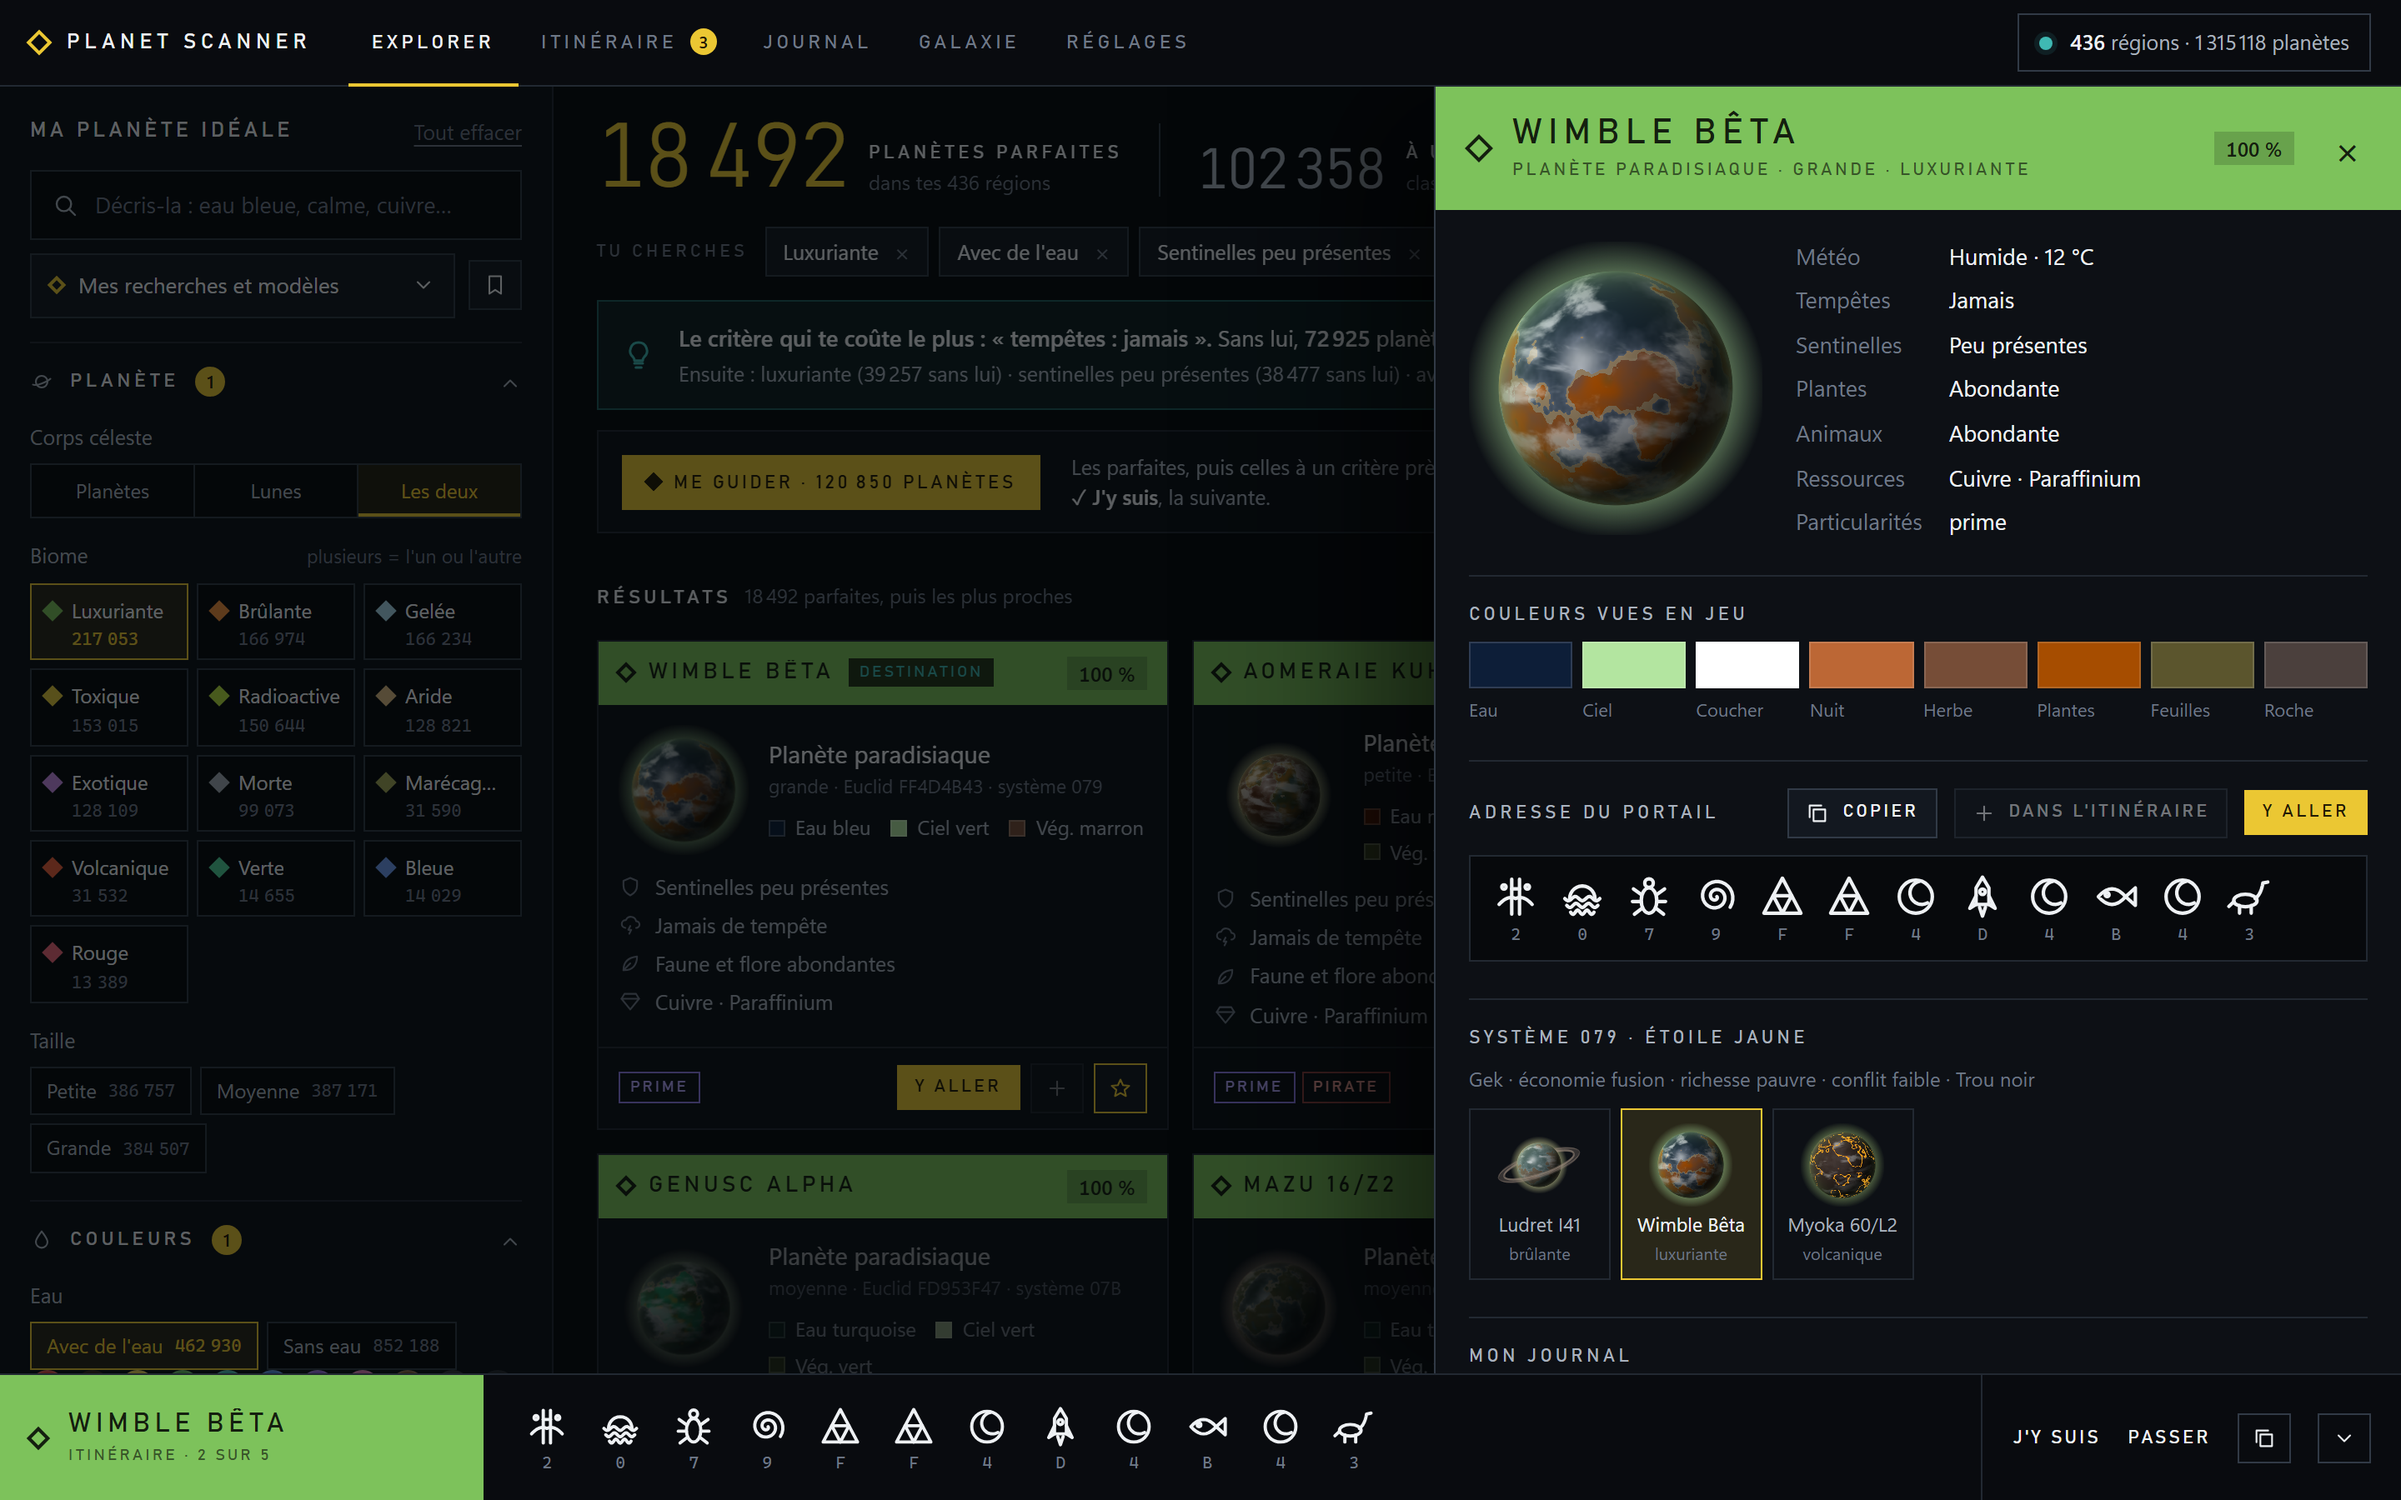
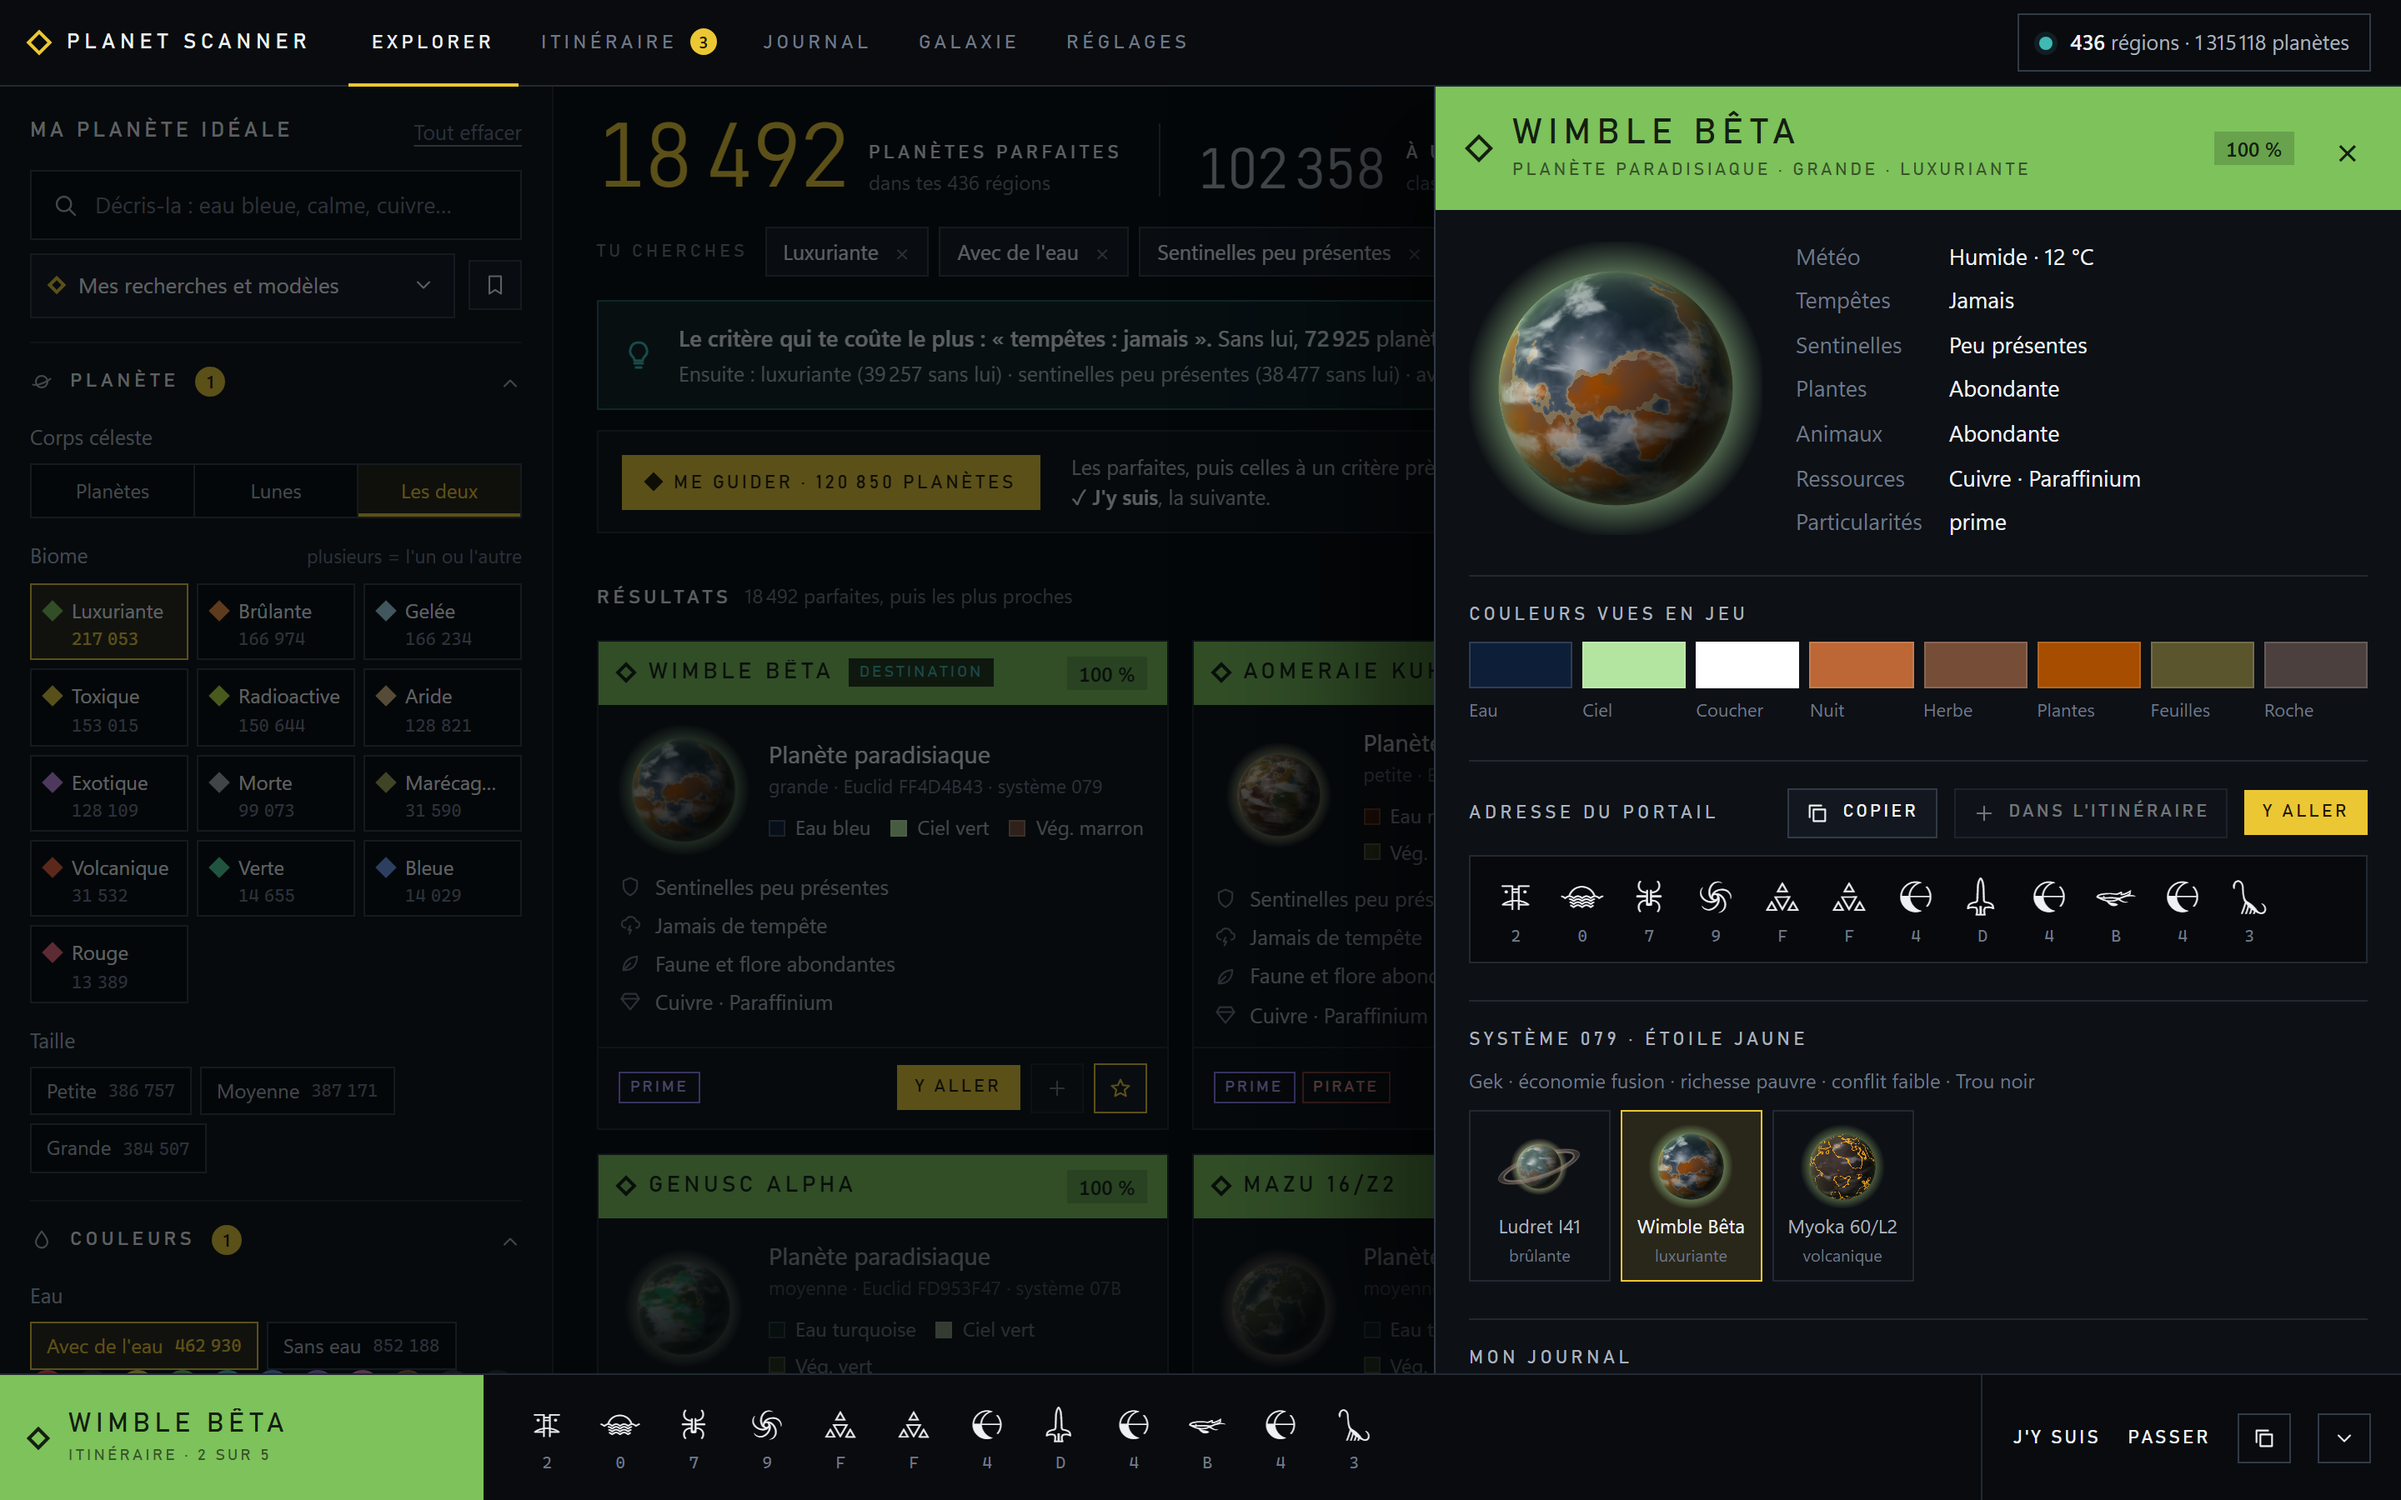
Les adresses se lisent avec les symboles du jeu, et chaque app chez elle
Les glyphes : l'app emporte la police publiee pour la communaute (NMS
Glyphs Mono, (c) 2017 Hello Games & Stephan van der Feest), et la page
comme la carte s'en servent. Un joueur qui prefere une autre variante pose
son NmsGlyphs.ttf dans le dossier data : la sienne passe devant. Reglages
-> Glyphes bascule sur les dessins de l'app.

Deux copies de Planet Scanner posees dans deux dossiers ne se prennent
plus l'une pour l'autre : chacune garde son port, son verrou, sa carte et
son bouton dans la barre des taches. Le port est retenu dans data/port.txt,
parce que la page se souvient des envies par port.

Changed region(s): [[0.625, 0.6844, 0.8125, 0.84], [0.2188, 0.9333, 0.5625, 0.9644], [0.625, 0.5911, 0.9375, 0.6222]]

diff --git a/app/static/index.html b/app/static/index.html
@@ -5,6 +5,7 @@
 <meta name="viewport" content="width=device-width, initial-scale=1">
 <title>Planet Scanner</title>
 <link rel="icon" href="icon.png">
+<link rel="stylesheet" href="nms-glyphs.css">
 <link rel="stylesheet" href="app.css?v=3">
 </head>
 <body>

diff --git a/overlay/overlay.py b/overlay/overlay.py
@@ -15,6 +15,7 @@ import ctypes.wintypes as wt
 import json
 import os
 import re
+import sys
 import threading
 import time
 import tkinter as tk
@@ -23,6 +24,8 @@ import urllib.request
 from pathlib import Path
 
 ROOT = Path(__file__).resolve().parent.parent
+# Les fichiers livres avec l'app : a cote du code, ou dans le paquet quand elle est compilee.
+STATIC = Path(getattr(sys, "_MEIPASS", ROOT / "app")) / "static"
 DATA = Path(os.environ.get("PS_DATA_DIR") or ROOT / "data")  # le meme dossier que l'app
 API = f"http://127.0.0.1:{os.environ.get('PS_PORT', 8765)}"
 STATE_FILE = DATA / "overlay.json"
@@ -95,7 +98,7 @@ def process_name(pid):
     return name
 
 
-def load_glyph_font():
+def load_glyph_font(root):
     """Register the NMS glyph font for this process only (no system install). None when it isn't there, or when
     Planet Scanner's own drawings were chosen (setting own_glyphs)."""
     try:
@@ -104,19 +107,22 @@ def load_glyph_font():
     except (OSError, ValueError):
         pass
     try:
-        ttf = DATA / "NmsGlyphs.ttf"
-        if not ttf.exists():
-            css = (ROOT / "app" / "static" / "nms-glyphs.css").read_text(encoding="utf-8")
+        ttf = DATA / "NmsGlyphs.ttf"          # celle que le joueur a posee, si elle est la
+        if not ttf.exists() and (STATIC / "NmsGlyphs.ttf").is_file():
+            ttf = STATIC / "NmsGlyphs.ttf"    # celle livree avec l'app
+        if not ttf.exists():                  # sinon, celle enfermee dans la feuille de style
+            css = (STATIC / "nms-glyphs.css").read_text(encoding="utf-8")
             ttf.write_bytes(base64.b64decode(re.search(r"base64,([A-Za-z0-9+/=]+)", css).group(1)))
         ctypes.windll.gdi32.AddFontResourceExW(str(ttf), 0x10, 0)  # FR_PRIVATE
-        return "NMS Glyphs Tight"
+        # Le nom de la famille depend de la variante livree (Tight, Mono...) : on prend celle qui est la.
+        return next((f for f in tkfont.families(root) if f.startswith("NMS Glyphs")), None)
     except (OSError, AttributeError):
         return None
 
 
 def load_glyph_drawings():
     try:
-        return json.loads((ROOT / "app" / "static" / "glyphs.json").read_text(encoding="utf-8"))
+        return json.loads((STATIC / "glyphs.json").read_text(encoding="utf-8"))
     except (OSError, ValueError):
         return None
 
@@ -136,7 +142,7 @@ class Overlay:
         self.root.attributes("-alpha", self.state["alpha"])
         families = set(tkfont.families(self.root))
         self.display_family = next((f for f in ("Bahnschrift Light", "Segoe UI Light") if f in families), "Segoe UI")
-        self.glyph_family = load_glyph_font()
+        self.glyph_family = load_glyph_font(self.root)
         self.drawings = None if self.glyph_family else load_glyph_drawings()
         self.trip, self.meta = None, None
         self.offline = False

diff --git a/app/server.py b/app/server.py
@@ -32,6 +32,22 @@ def _au_demarrage(con):
 HOST, PORT = "127.0.0.1", int(os.environ.get("PS_PORT", 8765))
 STATIC = Path(__file__).resolve().parent / "static"
 CON = db.connect()
+# La police des glyphes : celle que le joueur a posee dans son dossier passe avant celle livree avec l'app.
+POLICE_JOUEUR = db.DATA_DIR / "NmsGlyphs.ttf"
+POLICE_LIVREE = STATIC / "NmsGlyphs.ttf"
+
+
+def police():
+    """Le fichier de police a servir, ou None quand il n'y en a aucun."""
+    return next((c for c in (POLICE_JOUEUR, POLICE_LIVREE) if c.is_file()), None)
+
+
+def police_css():
+    """La feuille qui declare la police des glyphes, ou rien du tout quand il n'y en a pas : la page dessine
+    alors ses propres glyphes, et ne reclame pas un fichier absent."""
+    if police() is not None:
+        return b"@font-face { font-family: 'NmsGlyphs'; src: url(NmsGlyphs.ttf) format('truetype'); }\n"
+    return b""
 
 
 # L'index de recherche se prepare a part, sur sa propre connexion : la page s'ouvre pendant ce temps.
@@ -297,13 +313,19 @@ class Handler(BaseHTTPRequestHandler):
     def _static(self, path):
         if path in ("", "/"):
             path = "/index.html"
+        if path == "/nms-glyphs.css" and not (STATIC / "nms-glyphs.css").is_file():
+            return self._envoyer(police_css(), "text/css; charset=utf-8")
+        if path == "/NmsGlyphs.ttf" and police() is not None:
+            return self._envoyer(police().read_bytes(), "font/ttf")
         f = (STATIC / path.lstrip("/")).resolve()
         if STATIC not in f.parents or not f.is_file():
             return self._json({"error": "Introuvable"}, 404)
-        body = f.read_bytes()
+        self._envoyer(f.read_bytes(), (mimetypes.guess_type(f.name)[0] or "application/octet-stream")
+                      + ("; charset=utf-8" if f.suffix in (".html", ".js", ".css") else ""))
+
+    def _envoyer(self, body, type_mime):
         self.send_response(200)
-        self.send_header("Content-Type", (mimetypes.guess_type(f.name)[0] or "application/octet-stream")
-                         + ("; charset=utf-8" if f.suffix in (".html", ".js", ".css") else ""))
+        self.send_header("Content-Type", type_mime)
         self.send_header("Content-Length", str(len(body)))
         self.send_header("Cache-Control", "no-cache")
         self.end_headers()

diff --git a/app/db.py b/app/db.py
@@ -16,6 +16,8 @@ import vocabulaire as voc  # noqa: E402  (les mots du jeu, en francais)
 
 IMPORT_VERSION = 4  # bump to re-import every region after a change in how region files are read
 DATA_DIR = Path(os.environ.get("PS_DATA_DIR") or ROOT / "data")  # PS_DATA_DIR: test/demo data folder
+# Les fichiers livres avec l'app : a cote du code, ou dans le paquet quand elle est compilee.
+STATIC = Path(getattr(sys, "_MEIPASS", ROOT / "app")) / "static"
 DB_PATH = DATA_DIR / "scanner.db"
 
 GALAXIES = ["Euclid", "Hilbert Dimension", "Calypso", "Hesperius Dimension", "Hyades", "Ickjamatew", "Butterfly",
@@ -206,8 +208,10 @@ def meta(con, allow_stale=False):
               "detailed": sum(r["planets"] or 0 for r in regions if r["details"])}
     texts, names = TRADUCTIONS()
     return {"regions": regions, "features": features, "totals": totals, "substances_fr": voc.RESSOURCES_FR | names, "texts": texts,
-            # The NMS glyph font is a personal-use extra: without it, Planet Scanner's own drawings are used.
-            "glyph_font": (ROOT / "app" / "static" / "nms-glyphs.css").exists(),
+            # The NMS glyph font is a personal-use extra, never shipped: the player's own copy, dropped in the
+            # data folder, is enough. Without it, Planet Scanner's own drawings are used.
+            "glyph_font": any(f.exists() for f in (STATIC / "nms-glyphs.css", STATIC / "NmsGlyphs.ttf",
+                                                   DATA_DIR / "NmsGlyphs.ttf")),
             "colour_families": COLOUR_FAMILIES}
 
 

diff --git a/README.md b/README.md
@@ -58,10 +58,11 @@ Les clics ne prennent jamais le focus au jeu. Il faut jouer en **plein écran fe
 - La **ressource rare** d'une planète n'est pas connue : les packs donnent la commune et la peu commune.
 - Les adresses sont celles du portail, telles qu'on les tape en jeu.
 
-## Ce qui n'est pas inclus
+## Les glyphes
 
-La **police de glyphes du jeu** (© Hello Games & Stephan van der Feest) n'est pas redistribuable : Planet Scanner
-dessine ses propres glyphes, qui se lisent aussi bien.
+Les adresses s'affichent avec les **symboles du jeu**, dans la page comme sur la carte posée par-dessus lui :
+tu lis la même chose à l'écran et dans l'app. Si tu préfères, **Réglages → Glyphes** bascule sur les dessins de
+Planet Scanner, qui se lisent aussi bien.
 
 ## Licences
 
@@ -71,5 +72,8 @@ Les **packs de données** sont sous **CC BY 4.0** (fichier `LICENSE-DONNEES.md`)
 la source. La licence voyage avec les données : elle est écrite dans le manifeste de chaque pack.
 
 ## Crédits
+
+La police des glyphes (*NMS Glyphs*) est © Hello Games & Stephan van der Feest ; elle accompagne l'app pour que
+les adresses se lisent comme en jeu, et reste la propriété de ses auteurs.
 
 No Man's Sky est une marque de Hello Games. Ce projet n'est pas affilié à Hello Games et n'est pas soutenu par eux.
